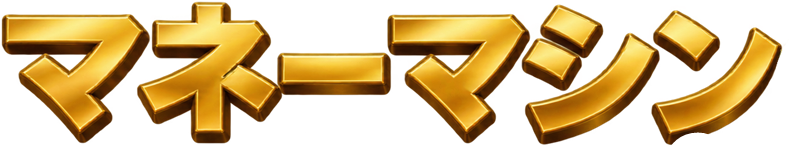
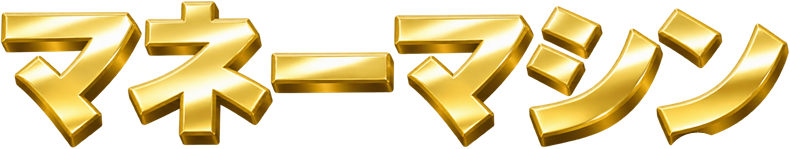
Publish the updated two-line retirement card across all hero designs

diff --git a/omikoshi-lion-fv/hero-v4.css b/omikoshi-lion-fv/hero-v4.css
@@ -1,0 +1,53 @@
+* { box-sizing: border-box; }
+html { background: #061222; }
+body { margin: 0; }
+.hero {
+  position: relative;
+  isolation: isolate;
+  overflow: hidden;
+  width: 100%;
+  max-width: 900px;
+  margin-inline: auto;
+}
+.poster { display: block; width: 100%; height: auto; }
+.effect { position: absolute; pointer-events: none; }
+.fire { left: 5.19230769%; top: 17.65517241%; width: 67.69230769%; height: 14.06896552%; }
+.hero[data-design="02"] .fire { left: 0; top: 0; width: 100%; height: 69.65517241%; }
+.hero[data-design="03"] .fire { left: 4.42307692%; top: 16.41379310%; width: 71.34615385%; height: 15.24137931%; }
+.gold-surface {
+  left: 8.26923077%; top: 77.10344828%; width: 83.46153846%; height: 6.82758621%;
+  mask: url("assets/gold-mask.png") center / 100% 100% no-repeat;
+  overflow: hidden;
+}
+.reflection {
+  position: absolute; top: -32%; height: 164%; width: 14%; left: -24%;
+  background: linear-gradient(90deg, transparent, #fff5c532 33%, #fffbddc4 49%, #fff8cd43 61%, transparent);
+  transform: skewX(-24deg);
+  animation: sweep 5.12s infinite linear;
+  mix-blend-mode: screen;
+}
+.flare {
+  width: 10.5%; left: 91.05%; top: 79.1%; opacity: 0;
+  transform: translate(-50%, -50%) scale(.25);
+  animation: glint 5.12s infinite;
+}
+@keyframes sweep {
+  0%, 4% { left: -24%; }
+  23%, 100% { left: 108%; }
+}
+@keyframes glint {
+  0%, 20% { opacity: 0; transform: translate(-50%, -50%) scale(.25) rotate(-12deg); }
+  25% { opacity: 1; transform: translate(-50%, -50%) scale(1) rotate(0deg); }
+  34% { opacity: .78; transform: translate(-50%, -50%) scale(.84) rotate(96deg); }
+  43%, 100% { opacity: 0; transform: translate(-50%, -50%) scale(.30) rotate(178deg); }
+}
+@media (prefers-reduced-motion: reduce) {
+  .effect { display: none; }
+}
+
+.fire { top: 15.32016756%; height: 12.20825853%; }
+.hero[data-design="02"] .fire { height: 60.44284859%; }
+.hero[data-design="03"] .fire { top: 14.24296828%; height: 13.22561341%; }
+.card-copy { left: 5.57692308%; top: 33.15380012%; width: 48.84615385%; height: 16.39736685%; }
+.gold-surface { left: 5.76923077%; top: 67.26511071%; width: 75.96153846%; height: 8.91681628%; mask-image: url("assets/machine-mask-v3.png?v=4"); }
+.flare { left: 80.76923077%; top: 70.25733094%; }

diff --git a/omikoshi-lion-fv/02/index.html b/omikoshi-lion-fv/02/index.html
@@ -5,13 +5,13 @@
   <meta name="viewport" content="width=device-width, initial-scale=1">
   <meta name="robots" content="noindex, nofollow">
   <title>ライオン兄さんセミナー｜02 炎</title>
-  <link rel="stylesheet" href="../hero-v3.css">
+  <link rel="stylesheet" href="../hero-v4.css">
 </head>
 <body>
   <main class="hero" data-design="02">
-    <img class="poster" width="1040" height="1584" fetchpriority="high" src="../assets/02-poster.png?v=3" alt="増田和彦とライオン兄さんの特別オンラインセミナー。お金持ちじゃなくてもFIREはできる。月10万円が永久に入り続ける、マネーマシンの作り方。">
+    <img class="poster" width="1040" height="1671" fetchpriority="high" src="../assets/02-poster.png?v=4" alt="増田和彦とライオン兄さんの特別オンラインセミナー。お金持ちじゃなくてもFIREはできる。月10万円が永久に入り続ける、マネーマシンの作り方。">
     <img class="effect fire" width="1040" height="1010" src="../assets/02-fire.webp" alt="" aria-hidden="true">
-    <img class="effect card-copy" width="508" height="182" src="../assets/02-card-v3.png" alt="" aria-hidden="true">
+    <img class="effect card-copy" width="508" height="274" src="../assets/02-card-v3.png?v=4" alt="" aria-hidden="true">
     <div class="effect gold-surface" aria-hidden="true"><div class="reflection"></div></div>
     <svg class="effect flare" viewBox="0 0 120 120" aria-hidden="true">
       <defs>

diff --git a/omikoshi-lion-fv/01/index.html b/omikoshi-lion-fv/01/index.html
@@ -5,12 +5,12 @@
   <meta name="viewport" content="width=device-width, initial-scale=1">
   <meta name="robots" content="noindex, nofollow">
   <title>ライオン兄さんセミナー｜01 紺</title>
-  <link rel="stylesheet" href="../hero-v3.css">
+  <link rel="stylesheet" href="../hero-v4.css">
 </head>
 <body>
   <main class="hero" data-design="01">
-    <img class="poster" width="1040" height="1584" fetchpriority="high" src="../assets/01-poster.png?v=3" alt="増田和彦とライオン兄さんの特別オンラインセミナー。お金持ちじゃなくてもFIREはできる。月10万円が永久に入り続ける、マネーマシンの作り方。">
-    <img class="effect fire" width="704" height="204" src="../assets/01-fire.png" alt="" aria-hidden="true">
+    <img class="poster" width="1040" height="1671" fetchpriority="high" src="../assets/01-poster.png?v=4" alt="増田和彦とライオン兄さんの特別オンラインセミナー。お金持ちじゃなくてもFIREはできる。月10万円が永久に入り続ける、マネーマシンの作り方。">
+    <img class="effect fire" width="704" height="204" src="../assets/01-fire.png?v=4" alt="" aria-hidden="true">
     <div class="effect gold-surface" aria-hidden="true"><div class="reflection"></div></div>
     <svg class="effect flare" viewBox="0 0 120 120" aria-hidden="true">
       <defs>

diff --git a/omikoshi-lion-fv/03/index.html b/omikoshi-lion-fv/03/index.html
@@ -5,11 +5,11 @@
   <meta name="viewport" content="width=device-width, initial-scale=1">
   <meta name="robots" content="noindex, nofollow">
   <title>ライオン兄さんセミナー｜03 ゴールド</title>
-  <link rel="stylesheet" href="../hero-v3.css">
+  <link rel="stylesheet" href="../hero-v4.css">
 </head>
 <body>
   <main class="hero" data-design="03">
-    <img class="poster" width="1040" height="1584" fetchpriority="high" src="../assets/03-poster.png?v=3" alt="増田和彦とライオン兄さんの特別オンラインセミナー。お金持ちじゃなくてもFIREはできる。月10万円が永久に入り続ける、マネーマシンの作り方。">
+    <img class="poster" width="1040" height="1671" fetchpriority="high" src="../assets/03-poster.png?v=4" alt="増田和彦とライオン兄さんの特別オンラインセミナー。お金持ちじゃなくてもFIREはできる。月10万円が永久に入り続ける、マネーマシンの作り方。">
     <img class="effect fire" width="742" height="221" src="../assets/03-fire.png" alt="" aria-hidden="true">
     <div class="effect gold-surface" aria-hidden="true"><div class="reflection"></div></div>
     <svg class="effect flare" viewBox="0 0 120 120" aria-hidden="true">
